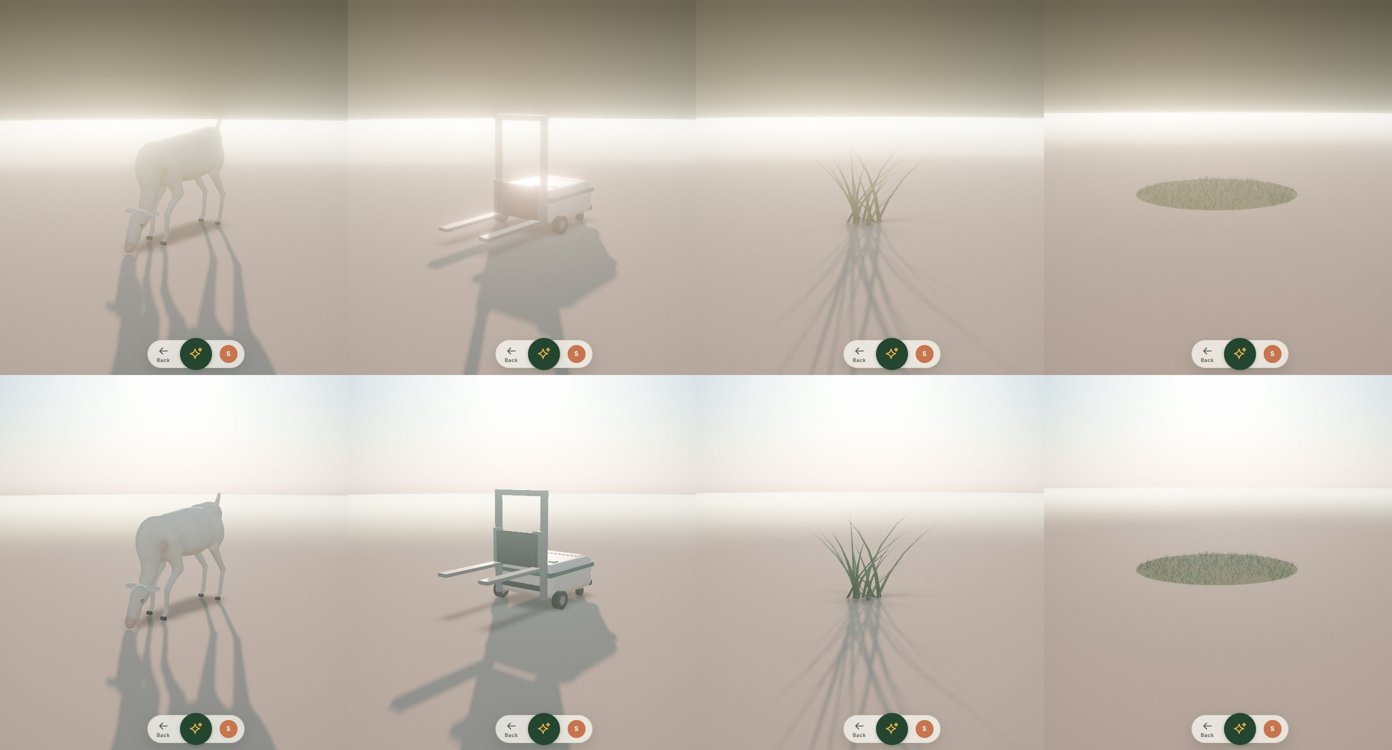
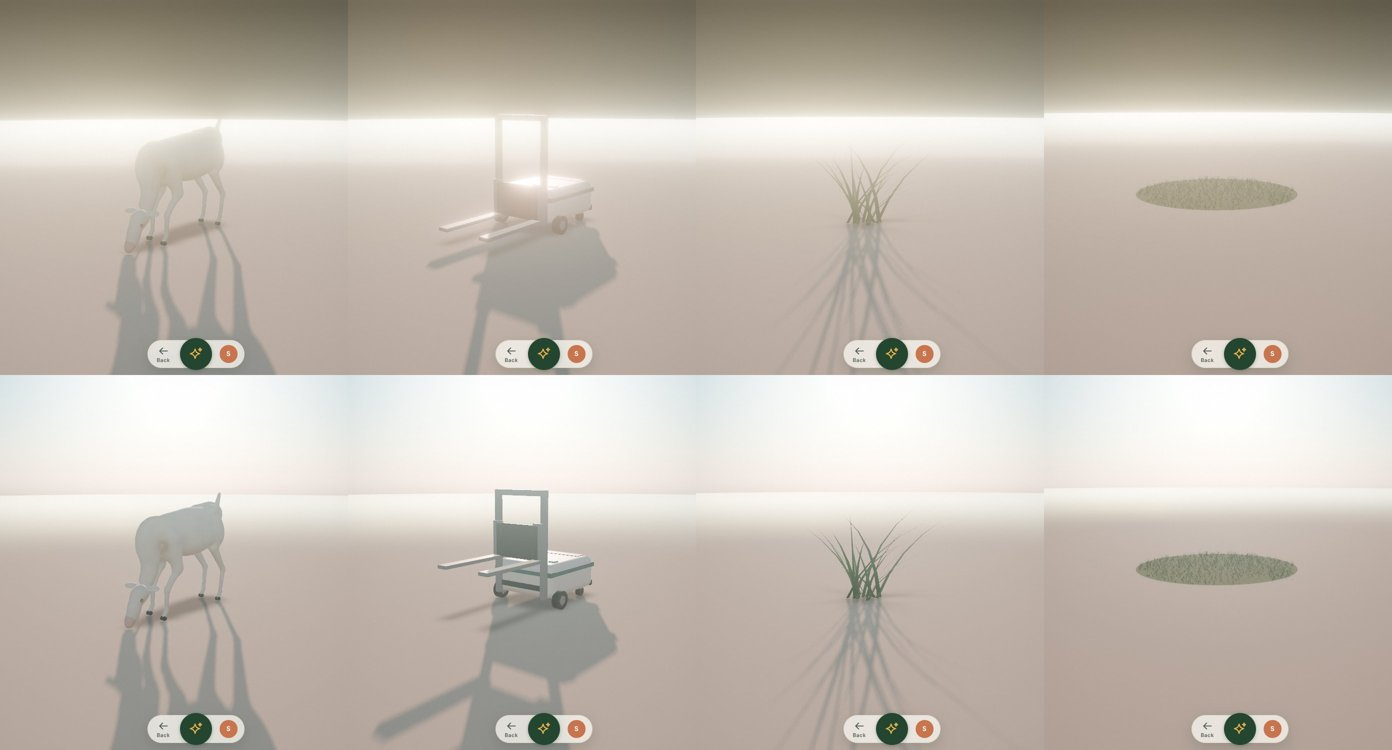
[544485e2] The c3 shots' head row taken again on eee4cd8 (the Mac's bloom fix merged in)
Intent: 544485e2-6504-4cc4-bd7c-ea1952ede53d

Claude-Session: https://claude.ai/code/session_01E9zxn8BvMaDNL7X3eVnAaY

Changed region(s): [[0.2471, 0.8893, 0.4016, 0.9813], [0.3089, 0.736, 0.4016, 0.7973], [0.3398, 0.6747, 0.4016, 0.7053]]

diff --git a/play/shots/544485e2/README.md b/play/shots/544485e2/README.md
@@ -2,7 +2,7 @@
 
 Taken in avenBOX's Chromium (SwiftShader, software GL; no Mac), 1280×800 at 1×, the viewer cropped, 60 s after the
 page opened, play's API read live with the admin token (read only). Main is `53f3bad`; head is this branch at
-`e164817` (main merged in). The same four viewers each: the goat (Saanen, /animals/), the forklift (/machines/), a
+`eee4cd8` (main and the Mac's bloom fix merged in). The same four viewers each: the goat (Saanen, /animals/), the forklift (/machines/), a
 grass tuft (Biome cover: Grass) and the meadow (/biomes/).
 
 - `main-*.jpg`: a dark olive sky above a glaring white band, a haze over the asset, its shadows weak. Over the
